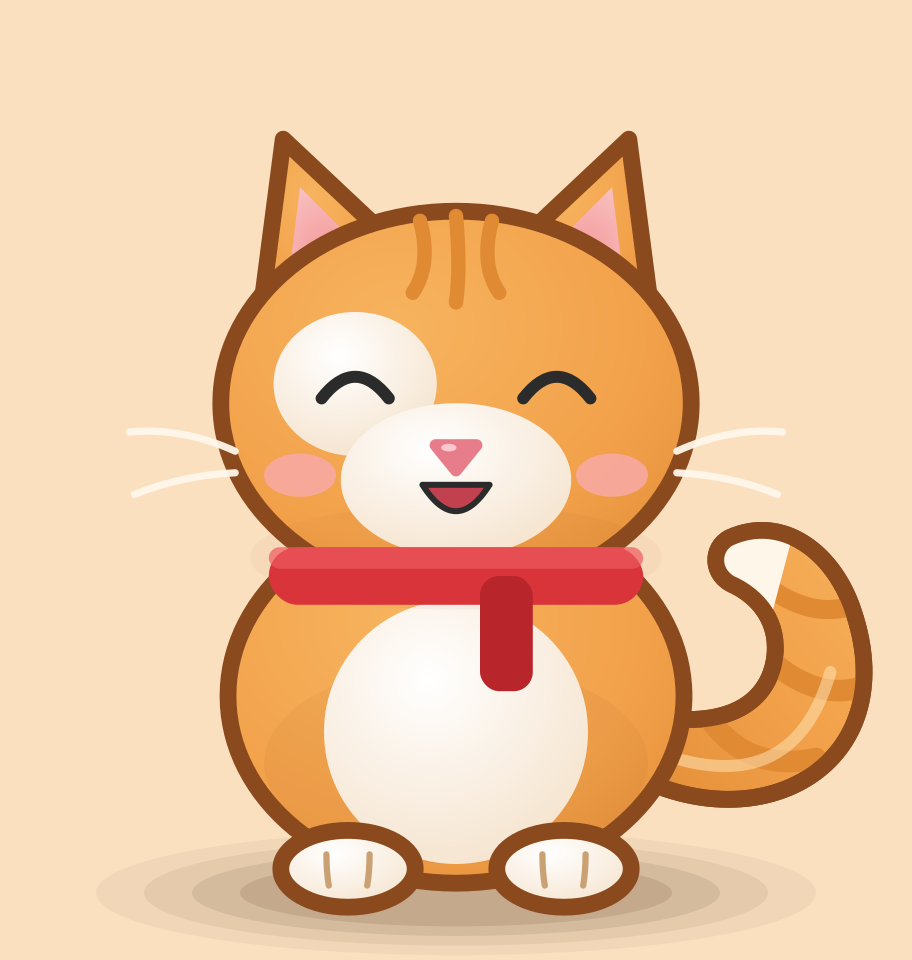
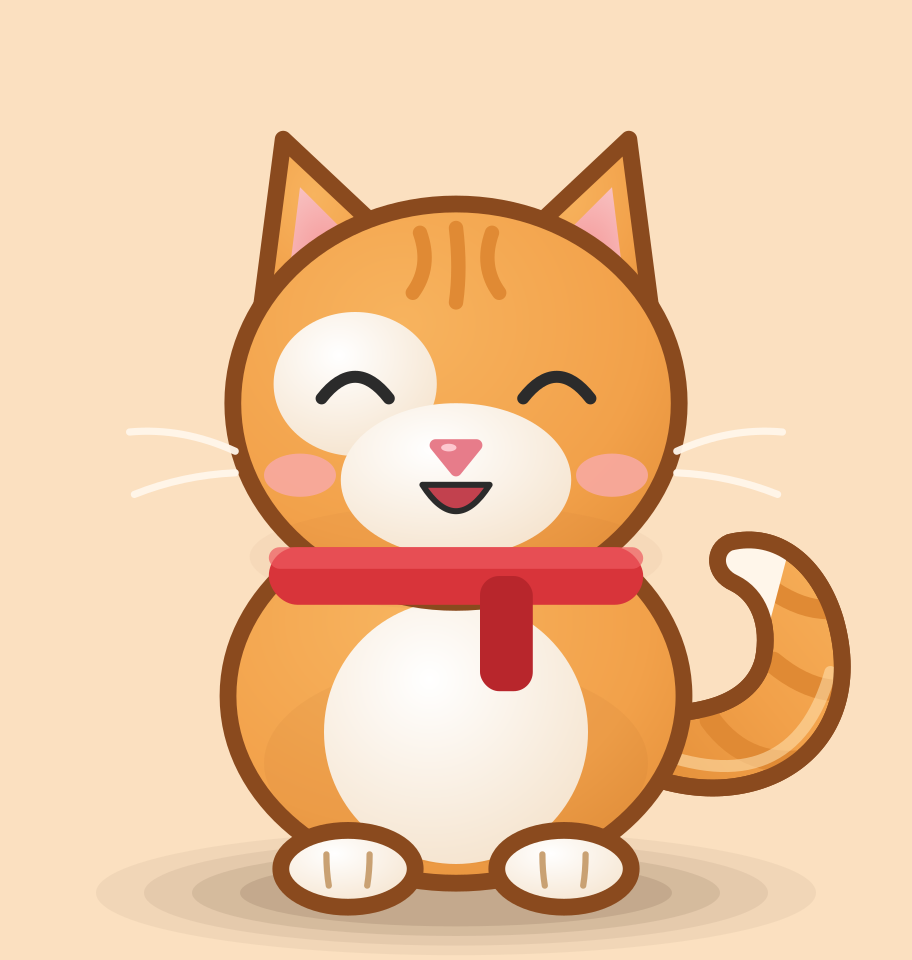
Mochi B: cauda mais fina, rosto mais redondo, contorno por cima das listras
Claude-Session: https://claude.ai/code/session_01FLvpF3WqtYzmgJK9KhnAb9

diff --git a/codigo/mochi_kit2.py b/codigo/mochi_kit2.py
@@ -31,8 +31,8 @@ def _shadow():
 
 
 def _tail(s, o):
-    body = ("M262 322 C318 352 376 318 356 256 C348 230 326 214 304 224 "
-            "C296 228 296 240 306 244 C318 250 326 262 322 278 C316 300 290 304 262 296 Z")
+    body = ("M262 320 C312 344 364 314 348 258 C341 235 324 221 304 226 "
+            "C297 229 297 239 306 243 C316 248 321 260 318 275 C313 294 290 299 262 297 Z")
     return f"""<defs><clipPath id="tc"><path d="{body}"/></clipPath>
 <linearGradient id="tg" x1="0" y1="1" x2="1" y2="0"><stop offset="0" stop-color="{s['c3']}"/><stop offset="0.5" stop-color="{s['c2']}"/><stop offset="1" stop-color="{s['c1']}"/></linearGradient></defs>
 <path d="{body}" fill="url(#tg)" {o}/>
@@ -66,12 +66,13 @@ def mochi2(style="A", expr="normal", blink=False, headphones=False, mouth_open=0
 <g {head}>
 <polygon points="108,135 118,58 168,105" fill="url(#gb)" {o}/><polygon points="272,135 262,58 212,105" fill="url(#gb)" {o}/>
 <polygon points="120,118 125,78 152,105" fill="url(#ge)"/><polygon points="260,118 255,78 228,105" fill="url(#ge)"/>
-<ellipse cx="190" cy="168" rx="98" ry="80" fill="url(#gb)" {o}/>
+<ellipse cx="190" cy="168" rx="93" ry="83" fill="url(#gb)"/>
 <ellipse cx="190" cy="232" rx="86" ry="22" fill="#8A4A1E" opacity="{shade*0.18:.2f}"/>
 {rim}
-<path d="M175 92 Q180 110 172 122" fill="none" stroke="{s['c3']}" stroke-width="6" stroke-linecap="round"/>
-<path d="M190 90 Q192 112 190 126" fill="none" stroke="{s['c3']}" stroke-width="6" stroke-linecap="round"/>
-<path d="M205 92 Q200 110 208 122" fill="none" stroke="{s['c3']}" stroke-width="6" stroke-linecap="round"/>
+<path d="M175 97 Q180 111 172 122" fill="none" stroke="{s['c3']}" stroke-width="6" stroke-linecap="round"/>
+<path d="M190 95 Q192 112 190 126" fill="none" stroke="{s['c3']}" stroke-width="6" stroke-linecap="round"/>
+<path d="M205 97 Q200 111 208 122" fill="none" stroke="{s['c3']}" stroke-width="6" stroke-linecap="round"/>
+<ellipse cx="190" cy="168" rx="93" ry="83" fill="none" {o}/>
 {angry}
 <ellipse cx="148" cy="160" rx="34" ry="30" fill="url(#gc)"/>
 <ellipse cx="190" cy="200" rx="48" ry="32" fill="url(#gc)"/>
